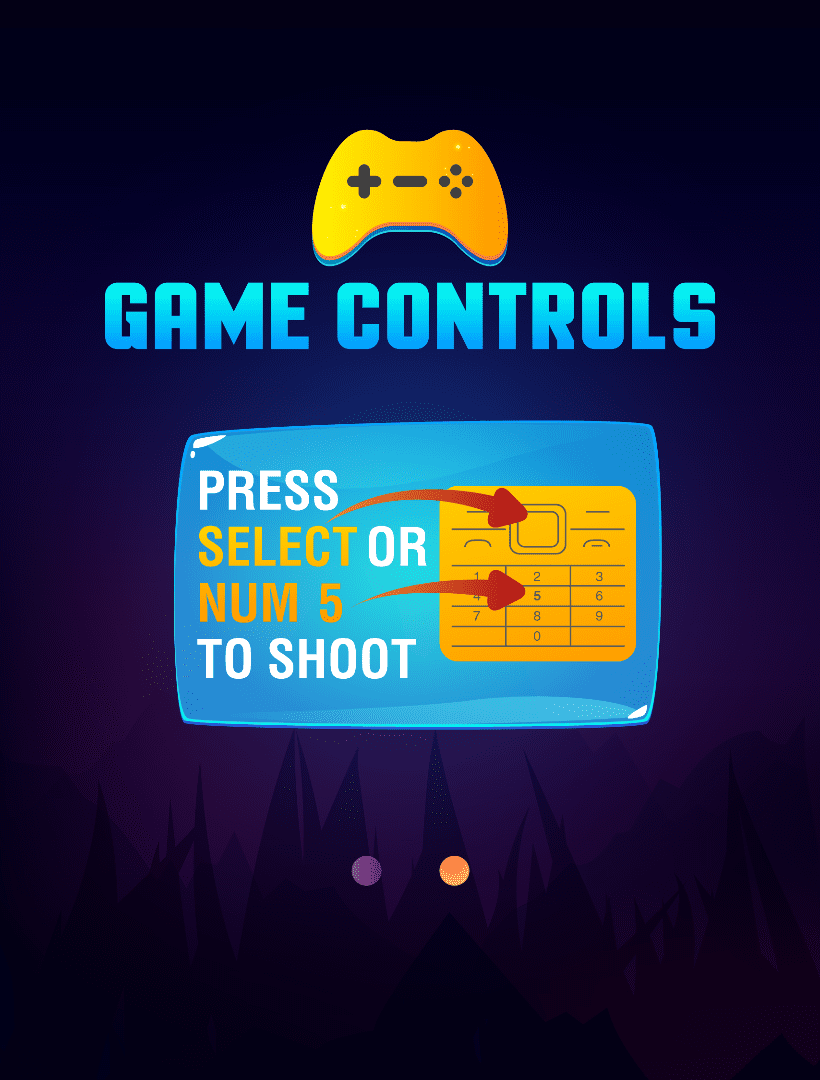
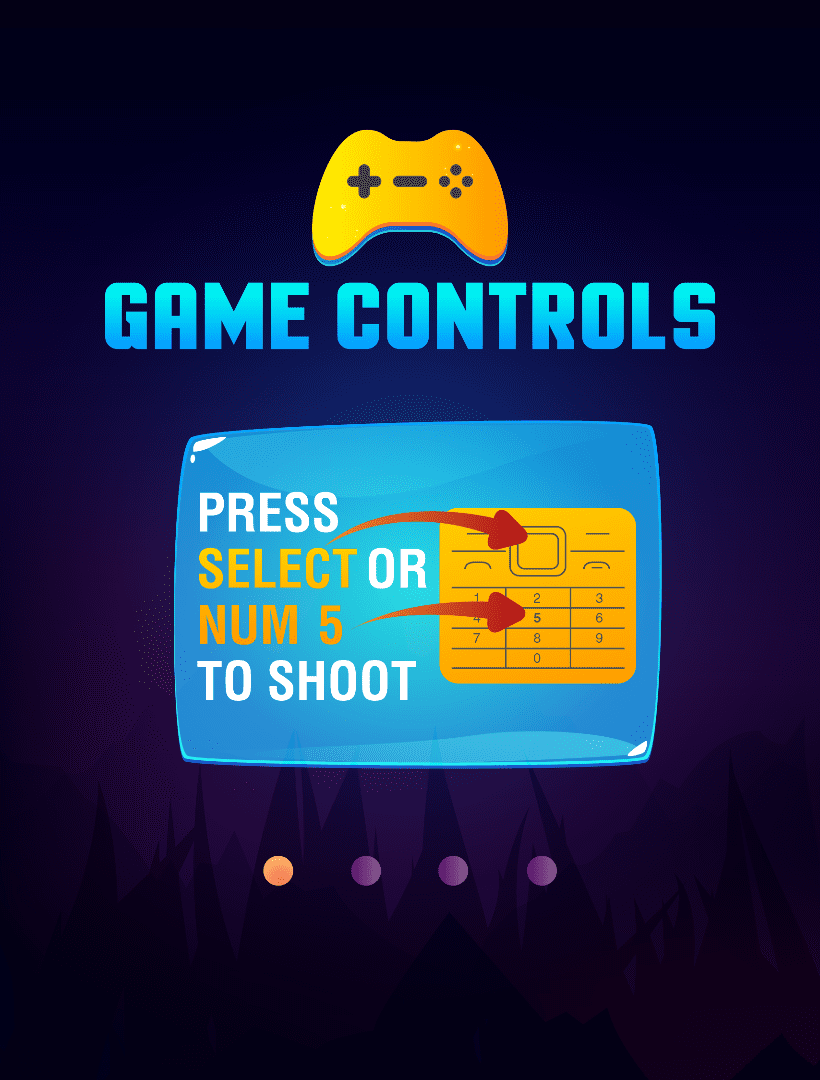
test

diff --git a/scenes/IntroductionScene.js b/scenes/IntroductionScene.js
@@ -1,13 +1,16 @@
 class IntroductionScene extends Phaser.Scene {
 
     constructor() {
-        super({ key: 'IntroductionScene', active: false });
+        super({ key: "IntroductionScene", active: false });
     }
 
     preload() {
-        this.load.image("bgIntro", "assets/img/Instructions.png");
-        this.load.image("bgGameControls", "assets/img/GameControls.png");
 
+        this.load.image("bgGamePL", "assets/img/PassLevels.png");
+        // this.load.image("bgLevels", "assets/img/levels.png");
+        this.load.image("bgGameControls", "assets/img/GameControls.png");
+        this.load.image("bgGameEP", "assets/img/ExtraPoints.png");
+        this.load.image("bgGameFL", "assets/img/FailLevels.png");
     }
 
     create() {
@@ -33,10 +36,18 @@ class IntroductionScene extends Phaser.Scene {
         }, this);
         //
 
+        this.input.keyboard.on('keyup', function (e) {
+            if (e.key == "SoftRight" || e.key == "Backspace") {
+                //console.log("soft right key");
+                //this.goToContactScene();
+                this.goBackScene()
 
-        this.selected_screen = 'intro';
+            }
+        }, this);
 
-        this.image = this.add.image(game.config.width / 2, game.config.height / 2, 'bgIntro');
+        this.selected_screen = 'control';
+
+        this.image = this.add.image(game.config.width / 2, game.config.height / 2, 'bgGameControls');
         this.image.displayHeight = game.config.height;
         this.image.displayWidth = game.config.width;
 
@@ -44,20 +55,14 @@ class IntroductionScene extends Phaser.Scene {
         this.right_arrow = this.input.keyboard.addKey(Phaser.Input.Keyboard.KeyCodes.RIGHT);
         // this.back_space = this.input.keyboard.addKey(Phaser.Input.Keyboard.KeyCodes.BACKSPACE);
 
-        this.skip = this.add.text(game.config.width - game.config.width * 10 / 100, game.config.height - game.config.height * 5 / 100, "Skip").setFontSize(30).setFontFamily("Arial").setOrigin(0.5);
+        this.goBack = this.add.text(game.config.width - game.config.width * 8 / 100, game.config.height - game.config.height * 5 / 100, "Back").setFontSize(30).setFontFamily("Arial").setOrigin(0.5);
 
-        this.input.keyboard.on('keyup', function (e) {
-            if (e.key == "SoftRight" || e.key == "Backspace") {
-                //console.log("soft right key");
-                this.goToMenuScene();
-            }
-        }, this);
+        // this.back_space = this.input.keyboard.addKey(Phaser.Input.Keyboard.KeyCodes.BACKSPACE);
+        this.left_arrow = this.input.keyboard.addKey(Phaser.Input.Keyboard.KeyCodes.LEFT);
+        this.right_arrow = this.input.keyboard.addKey(Phaser.Input.Keyboard.KeyCodes.RIGHT);
 
-        this.setValueToLocalStorage();
-    }
 
-    setValueToLocalStorage() {
-        localStorage.setItem('KS isFirstTime', "yes");
+
     }
 
     update() {
@@ -75,74 +80,83 @@ class IntroductionScene extends Phaser.Scene {
 
         // if (Phaser.Input.Keyboard.JustDown(this.back_space)) {
         //     //console.log("back CLICK");
-        //     this.goToMenuScene();
+        //     this.goBackScene();
         // }
+
     }
 
-    goToMenuScene() {
-        // this.scene.start('Menu');
+    changeSlidesRight() {
+        switch (this.selected_screen) {
+            case "control":
+                this.image.destroy();
+                this.image = this.add.image(game.config.width / 2, game.config.height / 2, 'bgGamePL');
+                this.image.displayHeight = game.config.height;
+                this.image.displayWidth = game.config.width;
+                this.selected_screen = "GamePL";
+                break;
+            case "GamePL":
+                this.image.destroy();
+                this.image = this.add.image(game.config.width / 2, game.config.height / 2, 'bgGameEP');
+                this.image.displayHeight = game.config.height;
+                this.image.displayWidth = game.config.width;
+                this.selected_screen = "GameEP";
+                break;
+            case "GameEP":
+                this.image.destroy();
+                this.image = this.add.image(game.config.width / 2, game.config.height / 2, 'bgGameFL');
+                this.image.displayHeight = game.config.height;
+                this.image.displayWidth = game.config.width;
+                this.selected_screen = "GameFL";
+                break;
+        }
+        //this.skip = this.add.text(game.config.width - game.config.width * 10 / 100, game.config.height - game.config.height * 5 / 100, "Skip").setFontSize(50).setFontFamily("Arial").setOrigin(0.5);
+        this.goBack = this.add.text(game.config.width - game.config.width * 8 / 100, game.config.height - game.config.height * 5 / 100, "Back").setFontSize(30).setFontFamily("Arial").setOrigin(0.5);
+    }
+
+    changeSlidesLeft() {
+        switch (this.selected_screen) {
+            case "GameFL":
+                this.image.destroy();
+                this.image = this.add.image(game.config.width / 2, game.config.height / 2, 'bgGameEP');
+                this.image.displayHeight = game.config.height;
+                this.image.displayWidth = game.config.width;
+                this.selected_screen = "GameEP";
+                break;
+            case "GameEP":
+                this.image.destroy();
+                this.image = this.add.image(game.config.width / 2, game.config.height / 2, 'bgGamePL');
+                this.image.displayHeight = game.config.height;
+                this.image.displayWidth = game.config.width;
+                this.selected_screen = "GamePL";
+                break;
+            case "GamePL":
+                this.image.destroy();
+                this.image = this.add.image(game.config.width / 2, game.config.height / 2, 'bgGameControls');
+                this.image.displayHeight = game.config.height;
+                this.image.displayWidth = game.config.width;
+                this.selected_screen = "control";
+                break;
+            // case "control":
+            //     this.image.destroy();
+            //     this.image = this.add.image(game.config.width / 2, game.config.height / 2, 'bgGamePL');
+            //     this.image.displayHeight = game.config.height;
+            //     this.image.displayWidth = game.config.width;
+            //     this.selected_screen = "GamePL";
+            //     break;
+        }
+        // this.skip = this.add.text(game.config.width - game.config.width * 10 / 100, game.config.height - game.config.height * 5 / 100, "Skip").setFontSize(50).setFontFamily("Arial").setOrigin(0.5);
+        this.goBackbtn = this.add.text(game.config.width - game.config.width * 8 / 100, game.config.height - game.config.height * 5 / 100, "Back").setFontSize(30).setFontFamily("Arial").setOrigin(0.5);
+    }
+
+    goBackScene() {
+        //console.log("clicked")
         this.scene.transition({
             target: 'Menu',
             moveAbove: true,
             duration: 300,
         })
+        // this.scene.start("Menu");
     }
 
-    changeSlidesRight() {
-        switch (this.selected_screen) {
-            case "intro":
-                this.image.destroy();
-                this.image = this.add.image(game.config.width / 2, game.config.height / 2, 'bgGameControls');
-                this.image.displayHeight = game.config.height;
-                this.image.displayWidth = game.config.width;
-                this.selected_screen = "controls";
-                break;
-            // case "controls":
-            //     this.image.destroy();
-            //     this.image = this.add.image(game.config.width/2, game.config.height/2, 'bgLevels');
-            //     this.image.displayHeight = game.config.height;
-            //     this.image.displayWidth = game.config.width;
-            //     this.selected_screen = "level";
-            //     break;
-            case "level":
-                this.image.destroy();
-                this.image = this.add.image(game.config.width / 2, game.config.height / 2, 'bgIntro');
-                this.image.displayHeight = game.config.height;
-                this.image.displayWidth = game.config.width;
-                this.selected_screen = "intro";
-                break;
 
-
-        }
-        this.skip = this.add.text(game.config.width - game.config.width * 10 / 100, game.config.height - game.config.height * 5 / 100, "Skip").setFontSize(30).setFontFamily("Arial").setOrigin(0.5);
-
-    }
-
-    changeSlidesLeft() {
-        switch (this.selected_screen) {
-            case "intro":
-                this.image.destroy();
-                this.image = this.add.image(game.config.width / 2, game.config.height / 2, 'bgLevels');
-                this.image.displayHeight = game.config.height;
-                this.image.displayWidth = game.config.width;
-                this.selected_screen = "level";
-                break;
-            // case "level":
-            //     this.image.destroy();
-            //     this.image = this.add.image(game.config.width/2, game.config.height/2, 'bgGameControls');
-            //     this.image.displayHeight = game.config.height;
-            //     this.image.displayWidth = game.config.width;
-            //     this.selected_screen = "controls";
-            //     break;
-            case "controls":
-                this.image.destroy();
-                this.image = this.add.image(game.config.width / 2, game.config.height / 2, 'bgIntro');
-                this.image.displayHeight = game.config.height;
-                this.image.displayWidth = game.config.width;
-                this.selected_screen = "intro";
-                break;
-        }
-        this.skip = this.add.text(game.config.width - game.config.width * 10 / 100, game.config.height - game.config.height * 5 / 100, "Skip").setFontSize(30).setFontFamily("Arial").setOrigin(0.5);
-
-    }
 }

diff --git a/scenes/HelpScene.js b/scenes/HelpScene.js
@@ -6,9 +6,11 @@ class HelpScene extends Phaser.Scene {
 
     preload() {
 
-        this.load.image("bgIntro", "assets/img/Instructions.png");
+        this.load.image("bgGamePL", "assets/img/PassLevels.png");
         // this.load.image("bgLevels", "assets/img/levels.png");
         this.load.image("bgGameControls", "assets/img/GameControls.png");
+        this.load.image("bgGameEP", "assets/img/ExtraPoints.png");
+        this.load.image("bgGameFL", "assets/img/FailLevels.png");
     }
 
     create() {
@@ -43,9 +45,9 @@ class HelpScene extends Phaser.Scene {
             }
         }, this);
 
-        this.selected_screen = 'intro';
+        this.selected_screen = 'control';
 
-        this.image = this.add.image(game.config.width / 2, game.config.height / 2, 'bgIntro');
+        this.image = this.add.image(game.config.width / 2, game.config.height / 2, 'bgGameControls');
         this.image.displayHeight = game.config.height;
         this.image.displayWidth = game.config.width;
 
@@ -85,29 +87,27 @@ class HelpScene extends Phaser.Scene {
 
     changeSlidesRight() {
         switch (this.selected_screen) {
-            case "intro":
+            case "control":
                 this.image.destroy();
-                this.image = this.add.image(game.config.width / 2, game.config.height / 2, 'bgGameControls');
+                this.image = this.add.image(game.config.width / 2, game.config.height / 2, 'bgGamePL');
                 this.image.displayHeight = game.config.height;
                 this.image.displayWidth = game.config.width;
-                this.selected_screen = "controls";
+                this.selected_screen = "GamePL";
                 break;
-            // case "controls":
-            //     this.image.destroy();
-            //     this.image = this.add.image(game.config.width/2, game.config.height/2, 'bgLevels');
-            //     this.image.displayHeight = game.config.height;
-            //     this.image.displayWidth = game.config.width;
-            //     this.selected_screen = "level";
-            //     break;
-            case "level":
+            case "GamePL":
                 this.image.destroy();
-                this.image = this.add.image(game.config.width / 2, game.config.height / 2, 'bgIntro');
+                this.image = this.add.image(game.config.width / 2, game.config.height / 2, 'bgGameEP');
                 this.image.displayHeight = game.config.height;
                 this.image.displayWidth = game.config.width;
-                this.selected_screen = "intro";
+                this.selected_screen = "GameEP";
                 break;
-
-
+            case "GameEP":
+                this.image.destroy();
+                this.image = this.add.image(game.config.width / 2, game.config.height / 2, 'bgGameFL');
+                this.image.displayHeight = game.config.height;
+                this.image.displayWidth = game.config.width;
+                this.selected_screen = "GameFL";
+                break;
         }
         //this.skip = this.add.text(game.config.width - game.config.width * 10 / 100, game.config.height - game.config.height * 5 / 100, "Skip").setFontSize(50).setFontFamily("Arial").setOrigin(0.5);
         this.goBack = this.add.text(game.config.width - game.config.width * 8 / 100, game.config.height - game.config.height * 5 / 100, "Back").setFontSize(30).setFontFamily("Arial").setOrigin(0.5);
@@ -115,27 +115,34 @@ class HelpScene extends Phaser.Scene {
 
     changeSlidesLeft() {
         switch (this.selected_screen) {
-            // case "intro":
-            //     this.image.destroy();
-            //     this.image = this.add.image(game.config.width/2, game.config.height/2, 'bgLevels');
-            //     this.image.displayHeight = game.config.height;
-            //     this.image.displayWidth = game.config.width;
-            //     this.selected_screen = "level";
-            //     break;
-            case "level":
+            case "GameFL":
+                this.image.destroy();
+                this.image = this.add.image(game.config.width / 2, game.config.height / 2, 'bgGameEP');
+                this.image.displayHeight = game.config.height;
+                this.image.displayWidth = game.config.width;
+                this.selected_screen = "GameEP";
+                break;
+            case "GameEP":
+                this.image.destroy();
+                this.image = this.add.image(game.config.width / 2, game.config.height / 2, 'bgGamePL');
+                this.image.displayHeight = game.config.height;
+                this.image.displayWidth = game.config.width;
+                this.selected_screen = "GamePL";
+                break;
+            case "GamePL":
                 this.image.destroy();
                 this.image = this.add.image(game.config.width / 2, game.config.height / 2, 'bgGameControls');
                 this.image.displayHeight = game.config.height;
                 this.image.displayWidth = game.config.width;
-                this.selected_screen = "controls";
+                this.selected_screen = "control";
                 break;
-            case "controls":
-                this.image.destroy();
-                this.image = this.add.image(game.config.width / 2, game.config.height / 2, 'bgIntro');
-                this.image.displayHeight = game.config.height;
-                this.image.displayWidth = game.config.width;
-                this.selected_screen = "intro";
-                break;
+            // case "control":
+            //     this.image.destroy();
+            //     this.image = this.add.image(game.config.width / 2, game.config.height / 2, 'bgGamePL');
+            //     this.image.displayHeight = game.config.height;
+            //     this.image.displayWidth = game.config.width;
+            //     this.selected_screen = "GamePL";
+            //     break;
         }
         // this.skip = this.add.text(game.config.width - game.config.width * 10 / 100, game.config.height - game.config.height * 5 / 100, "Skip").setFontSize(50).setFontFamily("Arial").setOrigin(0.5);
         this.goBackbtn = this.add.text(game.config.width - game.config.width * 8 / 100, game.config.height - game.config.height * 5 / 100, "Back").setFontSize(30).setFontFamily("Arial").setOrigin(0.5);

diff --git a/scenes/SelectLevel.js b/scenes/SelectLevel.js
@@ -42,7 +42,7 @@ class SelectLevel extends Phaser.Scene {
         //variables
         this.roundlist = new Array();
         this.selectedLevel = parseInt(localStorage.getItem('Completed Level'));
-        if(localStorage.getItem('Completed Level') == null){
+        if (localStorage.getItem('Completed Level') == null) {
             this.selectedLevel = 0;
         }
 
@@ -238,7 +238,7 @@ class SelectLevel extends Phaser.Scene {
                 //console.log("soft left key");
                 this.callMenuButton();
             }
-            if (e.key == "SoftRight") {
+            if (e.key == "SoftRight" || e.key == "Backspace") {
                 this.scene.transition({
                     target: 'Menu',
                     moveAbove: true,
